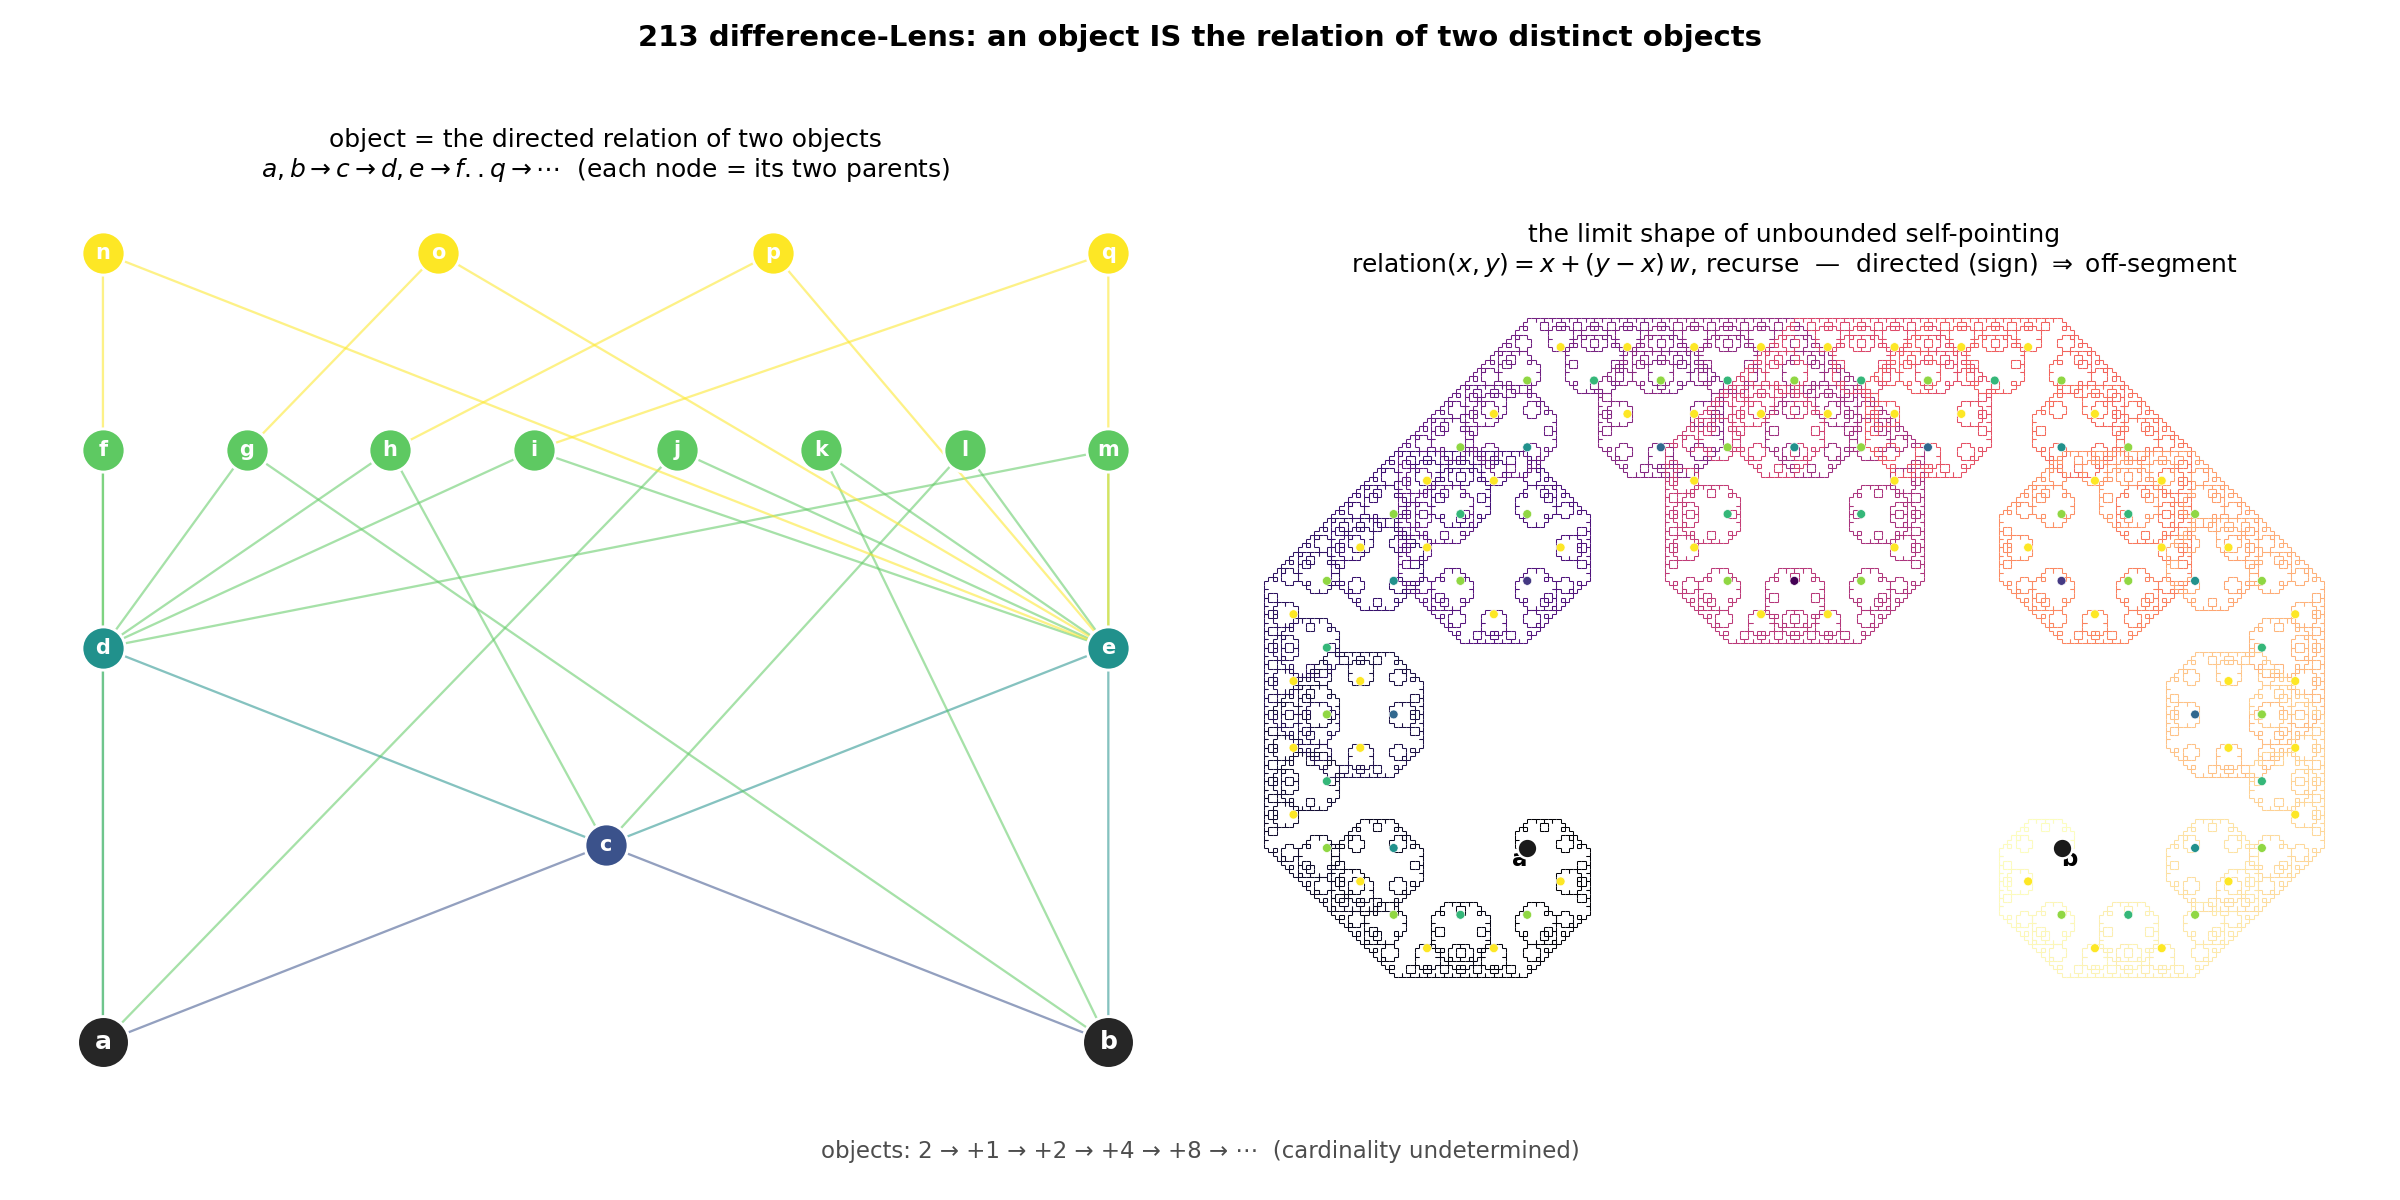
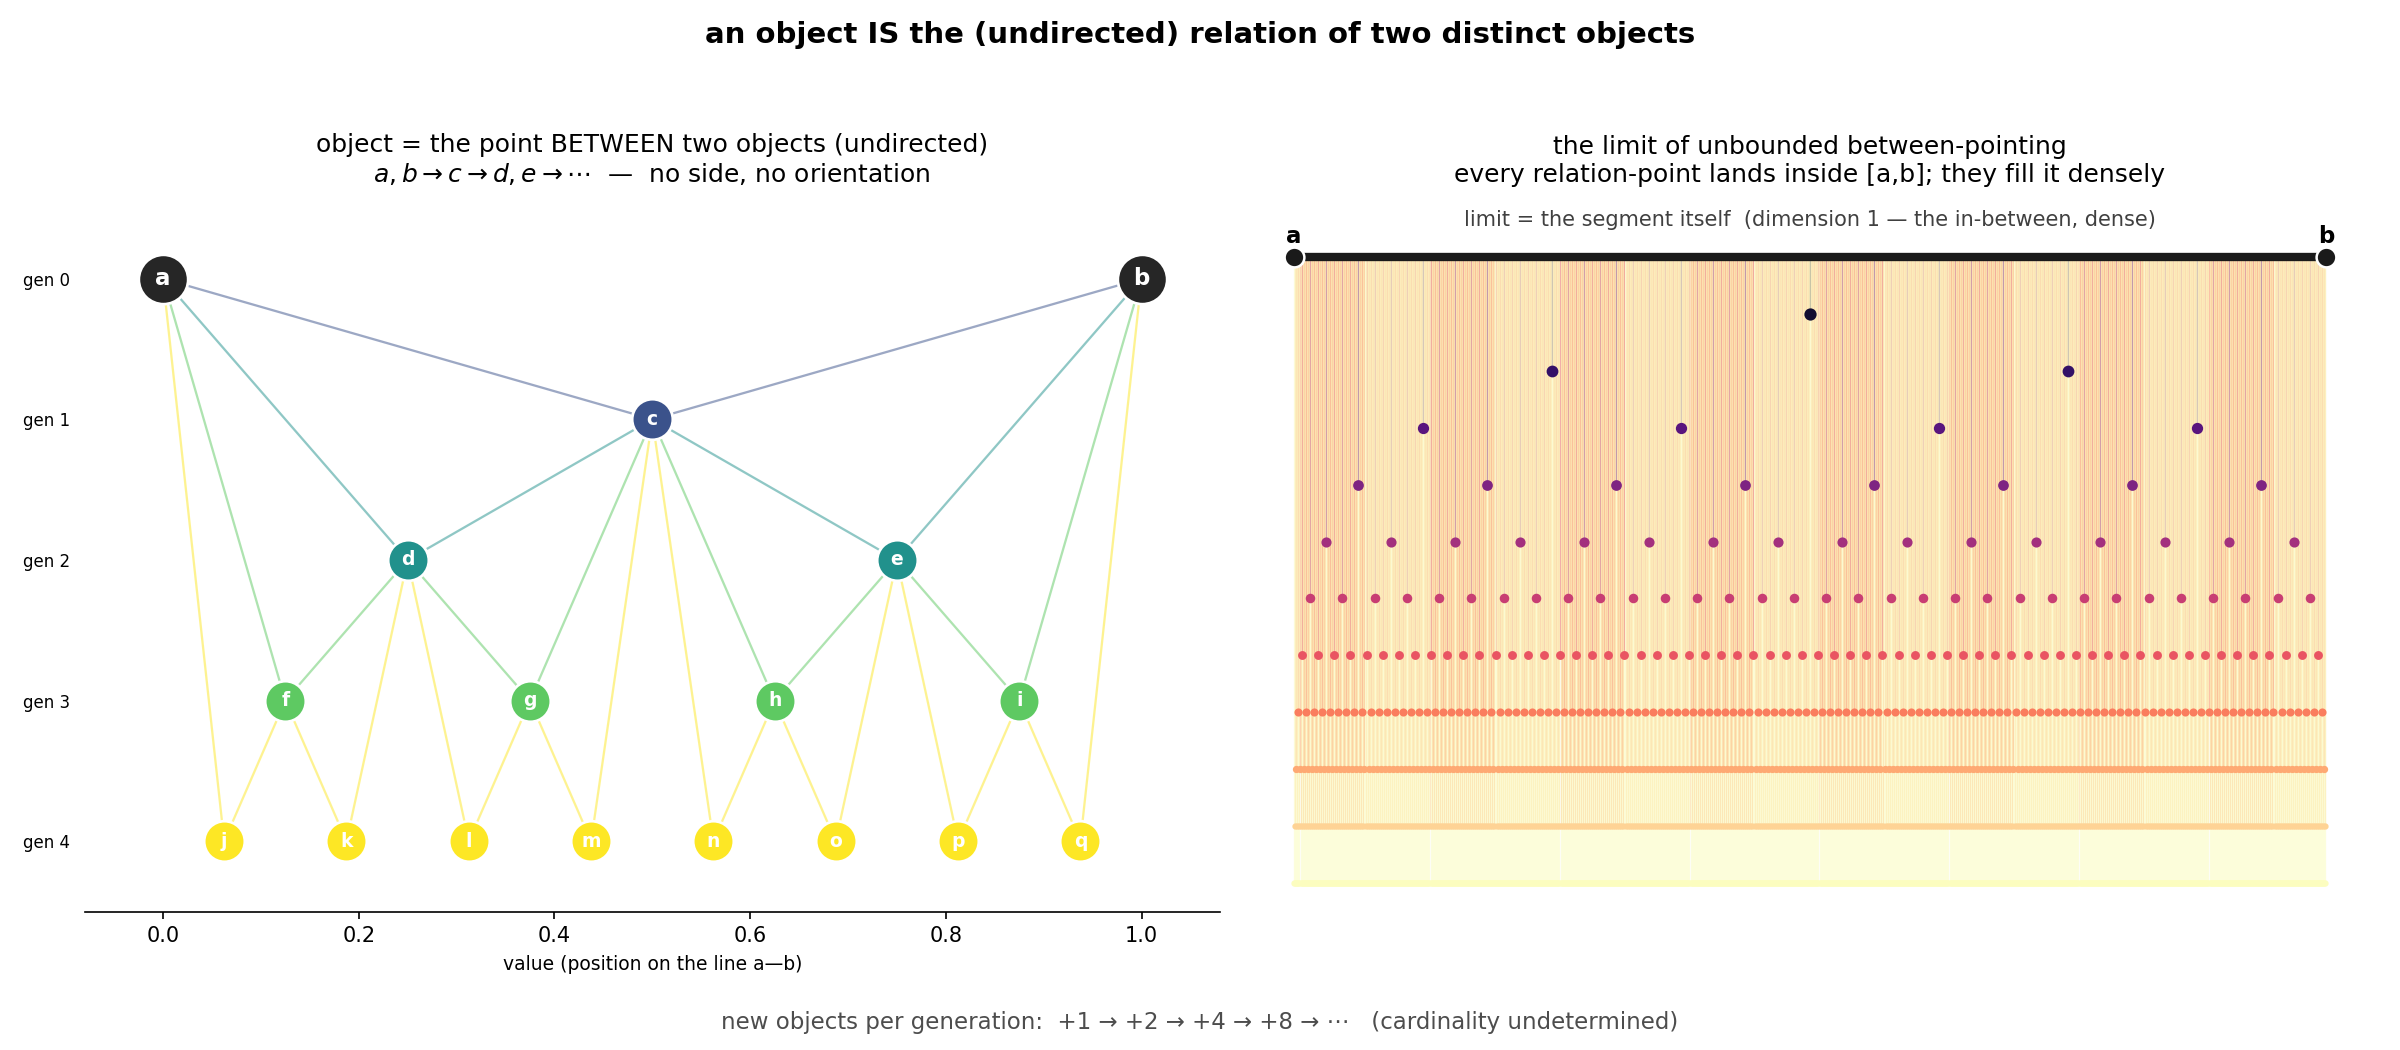
Correct the relation rendering to undirected (between-pointing)
The relation of two objects is symmetric: relation(x,y) = relation(y,x).
A symmetric relation-point cannot sit off the segment without choosing a side
(an orientation), so it lands strictly between its two parents.  Iterating
betweenness from two seeds fills the segment [a,b] densely; the limit object is
the line itself (dimension 1), not a fractal.  Sign/orientation belongs to the
later difference-Lens reading of a directed pair, not to this pre-sign layer.
New-point counts +1,+2,+4,+8 match the sketch exactly.

diff --git a/research-notes/geometric/object_as_relation.py b/research-notes/geometric/object_as_relation.py
@@ -1,179 +1,155 @@
-"""Geometric rendering of the difference-Lens self-pointing.
+"""Geometric rendering of the *undirected* relation self-pointing.
 
-Mingu Jeong's sketch: every object IS the (directed) relation of two distinct
-objects.  Start with a, b; the relation of (a,b) is a new object c; the
-relations of (c,a),(c,b) are d,e; and so on.  Each new object pairs with every
-existing one, so the population grows hyper-exponentially and its cardinality
-is left undetermined ("how infinite, we don't know").
+Mingu Jeong's sketch: an object IS the relation of two distinct objects — the
+new point that corresponds to the *line between* two points.  Start a, b; the
+between-point of (a,b) is c; the between-points of (a,c),(c,b) are d,e; and so
+on.  Every pair of points spawns a point, recursively, so the population grows
++1, +2, +4, +8, ... and its cardinality is left undetermined.
 
-In 213 terms this is the difference-Lens (06_lens_readings.md §6.7): an object
-is the count-Lens on a *directed* pair, magnitude Nat-style, sign Bool-style
-pair-swap.  Directedness means relation(x,y) != relation(y,x) — the two are
-negatives of one another — so the geometric image of a relation sits on one
-*side* of the segment, not at its midpoint.
+The relation is UNDIRECTED: relation(x,y) = relation(y,x).  Symmetry is the
+whole content — a symmetric relation-point cannot sit off the segment without
+choosing a side, and a side is an orientation.  So the relation-point lives
+*between* its two parents (the symmetric choice = the midpoint).  Iterating
+betweenness from two seeds therefore does not build a fractal; it fills in the
+segment [a,b] densely.  The limit object is the line itself: dimension 1, the
+in-between made of all the relation-points (the dyadic points, dense in [a,b]).
+
+(213 note: sign / orientation is NOT a Raw primitive — it is a later reading the
+difference-Lens lays on a *directed* pair, 06_lens_readings.md §6.7.  This
+construction is one layer below that, pre-sign, hence symmetric.  Its number-
+theoretic cousin is the mediant / Stern-Brocot tree, where the between-point of
+two fractions is their mediant and iterating fills in all the rationals.)
 
 Two panels:
-  (1) the labelled relation graph for the first generations (a..q...),
-      every node drawn with the two parent-edges that define it;
-  (2) the geometric limit: iterate "the relation of (x,y) is a new point off
-      the segment, then recurse on (x, p) and (p, y)" — a directed de Rham
-      (Levy) curve — coloured by recursion depth.  This is the self-similar
-      shape the unbounded self-pointing converges to.
+  (1) the betweenness tree: every new point lands strictly between the two it
+      relates — value on the x-axis, birth generation downward;
+  (2) the limit: many generations of relation-points filling [a,b], converging
+      to the solid segment.
 
 Run:  python3 research-notes/geometric/object_as_relation.py
 """
 
 import numpy as np
 import matplotlib.pyplot as plt
-from matplotlib.collections import LineCollection
 
 
 # ----------------------------------------------------------------------------
-# Panel 1 — the labelled relation graph (faithful to the sketch)
+# the construction: betweenness of adjacent points (the symmetric relation)
 # ----------------------------------------------------------------------------
-# parents[child] = (x, y): the new object `child` IS the directed relation x->y.
-# Generated by: process objects in birth order; the object being processed
-# spawns relation(self, other) with every object that exists at that moment.
-#   process a (others b)            -> c
-#   process c (others a,b)          -> d=(c,a), e=(c,b)
-#   process d (others a,b,c,e)      -> f,g,h,i
-#   process e (others a,b,c,d,f..i) -> j,k,l,m,n,o,p,q
-# (b is the second seed; relation(a,b)=relation(b,a)=c at the undirected seed.)
+def build(generations):
+    """Return points = list of (value, gen) and parents dict value -> (lo, hi).
 
-SEEDS = ["a", "b"]
-parents = {
-    "c": ("a", "b"),
-    "d": ("c", "a"), "e": ("c", "b"),
-    "f": ("d", "a"), "g": ("d", "b"), "h": ("d", "c"), "i": ("d", "e"),
-    "j": ("e", "a"), "k": ("e", "b"), "l": ("e", "c"), "m": ("e", "d"),
-    "n": ("e", "f"), "o": ("e", "g"), "p": ("e", "h"), "q": ("e", "i"),
-}
-
-# birth generation of every object (seeds = 0)
-gen = {"a": 0, "b": 0}
-for child, (x, y) in parents.items():
-    gen[child] = max(gen[x], gen[y]) + 1
-maxgen = max(gen.values())
-
-# radial layout: ring radius = generation, objects spread by angle within a ring
-by_gen = {}
-for obj, g in gen.items():
-    by_gen.setdefault(g, []).append(obj)
-# keep a stable, birth-ordered sweep so parent/child stay angularly near
-order = SEEDS + list(parents.keys())
-for g in by_gen:
-    by_gen[g].sort(key=order.index)
-
-# layered DAG: generation = vertical level, birth order spreads horizontally
-pos = {}
-WIDTH = 12.0
-for g, objs in by_gen.items():
-    n = len(objs)
-    xs = ([0.0] if n == 1 else np.linspace(-WIDTH / 2, WIDTH / 2, n))
-    for obj, x in zip(objs, xs):
-        pos[obj] = (float(x), float(g) * 1.7)
+    Seeds a=0, b=1.  Each generation inserts the midpoint of every adjacent
+    pair currently on the line.  New-point counts: 1, 2, 4, 8, ...  (matches
+    the sketch's +1, +2, +4, +8 explosion exactly).
+    """
+    vals = [0.0, 1.0]
+    gen = {0.0: 0, 1.0: 0}
+    parents = {}
+    for g in range(1, generations + 1):
+        new = []
+        for lo, hi in zip(vals[:-1], vals[1:]):
+            m = 0.5 * (lo + hi)
+            gen[m] = g
+            parents[m] = (lo, hi)
+            new.append(m)
+        vals = sorted(vals + new)
+    return vals, gen, parents
 
 
-def draw_graph(ax):
+# first letters, in birth order, for the labelled panel
+LETTERS = "abcdefghijklmnopqrstuvwxyz"
+
+
+def label_map(gen):
+    order = sorted(gen, key=lambda v: (gen[v], v))
+    return {v: LETTERS[i] for i, v in enumerate(order) if i < len(LETTERS)}
+
+
+# ----------------------------------------------------------------------------
+# Panel 1 — the betweenness tree (every node lands between its two parents)
+# ----------------------------------------------------------------------------
+def draw_tree(ax, gens=4):
+    vals, gen, parents = build(gens)
+    labels = label_map(gen)
     cmap = plt.get_cmap("viridis")
-    # edges: each object -> its two defining parents
-    for child, (x, y) in parents.items():
-        cx, cy = pos[child]
-        col = cmap(gen[child] / maxgen)
-        for px, py in (pos[x], pos[y]):
-            ax.annotate(
-                "", xy=(cx, cy), xytext=(px, py),
-                arrowprops=dict(arrowstyle="-", color=col, lw=1.1, alpha=0.55),
-            )
+    maxg = gens
+
+    # edges: each relation-point down to the two points it is between
+    for m, (lo, hi) in parents.items():
+        col = cmap(gen[m] / maxg)
+        for p in (lo, hi):
+            ax.plot([m, p], [-gen[m], -gen[p]], color=col, lw=1.1, alpha=0.5,
+                    zorder=1)
     # nodes
-    for obj, (x, y) in pos.items():
-        g = gen[obj]
-        col = "0.15" if g == 0 else cmap(g / maxgen)
-        ax.scatter([x], [y], s=620 if g == 0 else 430, color=col,
-                   edgecolors="white", linewidths=1.4, zorder=3)
-        ax.text(x, y, obj, ha="center", va="center", color="white",
-                fontsize=12 if g == 0 else 10, fontweight="bold", zorder=4)
+    for v in vals:
+        g = gen[v]
+        col = "0.15" if g == 0 else cmap(g / maxg)
+        ax.scatter([v], [-g], s=560 if g == 0 else 380, color=col,
+                   edgecolors="white", linewidths=1.3, zorder=3)
+        ax.text(v, -g, labels.get(v, ""), ha="center", va="center",
+                color="white", fontsize=11 if g == 0 else 9,
+                fontweight="bold", zorder=4)
+
     ax.set_title(
-        "object = the directed relation of two objects\n"
-        r"$a,b \to c \to d,e \to f..q \to \cdots$  (each node = its two parents)",
+        "object = the point BETWEEN two objects (undirected)\n"
+        r"$a,b \to c \to d,e \to \cdots$  —  no side, no orientation",
         fontsize=12)
-    ax.set_aspect("auto")
-    ax.margins(0.08)
-    ax.axis("off")
+    ax.set_xlim(-0.08, 1.08)
+    ax.set_ylim(-maxg - 0.5, 0.6)
+    ax.set_yticks([-g for g in range(maxg + 1)])
+    ax.set_yticklabels([f"gen {g}" for g in range(maxg + 1)], fontsize=8)
+    ax.set_xlabel("value (position on the line a—b)", fontsize=9)
+    for s in ("top", "right", "left"):
+        ax.spines[s].set_visible(False)
+    ax.tick_params(left=False)
 
 
 # ----------------------------------------------------------------------------
-# Panel 2 — the geometric limit (directed de Rham / Levy curve)
+# Panel 2 — the limit: betweenness fills the segment [a,b]
 # ----------------------------------------------------------------------------
-# relation(x, y) = x + (y - x) * w, with complex w = 1/2 + s*i.
-# Im(w) != 0 puts the relation off the segment -> relation(x,y) != relation(y,x):
-# the directedness / sign of the difference-Lens, made geometric.
-# Recurse on (x, p) and (p, y); the birth points trace a self-similar set.
-
-W = 0.5 + 0.5j  # Levy C-curve constant
-
-
-def levy_points(x, y, depth, births):
-    """Return polyline points; record each relation-birth with its depth."""
-    if depth == 0:
-        return [x, y]
-    p = x + (y - x) * W
-    births.append((p, depth))
-    left = levy_points(x, p, depth - 1, births)
-    right = levy_points(p, y, depth - 1, births)
-    return left[:-1] + right
-
-
-def draw_limit(ax, depth=14):
-    births = []
-    pts = levy_points(0 + 0j, 1 + 0j, depth, births)
-    xs = np.array([z.real for z in pts])
-    ys = np.array([z.imag for z in pts])
-
-    # the curve, coloured along its length
-    seg = np.stack([np.column_stack([xs[:-1], ys[:-1]]),
-                    np.column_stack([xs[1:], ys[1:]])], axis=1)
-    lc = LineCollection(seg, cmap="magma",
-                        array=np.linspace(0, 1, len(seg)), lw=0.5)
-    ax.add_collection(lc)
-
-    # scatter early-generation birth points, coloured by birth depth
-    early = [(p, d) for p, d in births if d >= depth - 6]
-    if early:
-        bx = [p.real for p, d in early]
-        by = [p.imag for p, d in early]
-        bc = [depth - d for p, d in early]
-        ax.scatter(bx, by, c=bc, cmap="viridis", s=18,
-                   edgecolors="white", linewidths=0.3, zorder=3)
-    # the two seeds
-    ax.scatter([0, 1], [0, 0], s=90, color="0.1",
-               edgecolors="white", linewidths=1.2, zorder=4)
-    ax.text(0, 0, "a", ha="right", va="top", fontsize=11, fontweight="bold")
-    ax.text(1, 0, "b", ha="left", va="top", fontsize=11, fontweight="bold")
+def draw_limit(ax, gens=11):
+    vals, gen, _ = build(gens)
+    cmap = plt.get_cmap("magma")
+    for v in vals:
+        g = gen[v]
+        ax.plot([v, v], [-g, 0.0], color=cmap(g / gens), lw=0.6, alpha=0.5,
+                zorder=1)
+        ax.scatter([v], [-g], s=max(4, 26 - 2.2 * g), color=cmap(g / gens),
+                   zorder=2)
+    # the completed continuum
+    ax.plot([0, 1], [0.0, 0.0], color="0.1", lw=4, solid_capstyle="round",
+            zorder=3)
+    ax.scatter([0, 1], [0, 0], s=90, color="0.1", edgecolors="white",
+               linewidths=1.2, zorder=4)
+    ax.text(0, 0.25, "a", ha="center", fontsize=11, fontweight="bold")
+    ax.text(1, 0.25, "b", ha="center", fontsize=11, fontweight="bold")
+    ax.text(0.5, 0.55,
+            "limit = the segment itself  (dimension 1 — the in-between, dense)",
+            ha="center", fontsize=10, color="0.25")
 
     ax.set_title(
-        "the limit shape of unbounded self-pointing\n"
-        r"relation$(x,y)=x+(y-x)\,w$, recurse  —  directed (sign) $\Rightarrow$ off-segment",
+        "the limit of unbounded between-pointing\n"
+        "every relation-point lands inside [a,b]; they fill it densely",
         fontsize=12)
-    ax.set_aspect("equal")
-    ax.autoscale()
-    ax.margins(0.05)
+    ax.set_xlim(-0.05, 1.05)
+    ax.set_ylim(-gens - 0.5, 1.1)
     ax.axis("off")
 
 
 def main():
-    fig, axes = plt.subplots(1, 2, figsize=(16, 8))
+    fig, axes = plt.subplots(1, 2, figsize=(16, 7))
     fig.patch.set_facecolor("white")
-    draw_graph(axes[0])
+    draw_tree(axes[0])
     draw_limit(axes[1])
 
-    # population-explosion annotation (objects born when each node fans out)
-    counts = "objects: 2 → +1 → +2 → +4 → +8 → ⋯  (cardinality undetermined)"
-    fig.text(0.5, 0.035, counts, ha="center", fontsize=11, color="0.3")
-
-    fig.suptitle("213 difference-Lens: an object IS the relation of two distinct objects",
+    fig.text(0.5, 0.02,
+             "new objects per generation:  +1 → +2 → +4 → +8 → ⋯   "
+             "(cardinality undetermined)",
+             ha="center", fontsize=11, color="0.3")
+    fig.suptitle("an object IS the (undirected) relation of two distinct objects",
                  fontsize=14, fontweight="bold")
-    fig.tight_layout(rect=[0, 0.06, 1, 0.96])
+    fig.tight_layout(rect=[0, 0.05, 1, 0.95])
     out = "research-notes/geometric/object_as_relation.png"
     fig.savefig(out, dpi=150, facecolor="white")
     print("wrote", out)